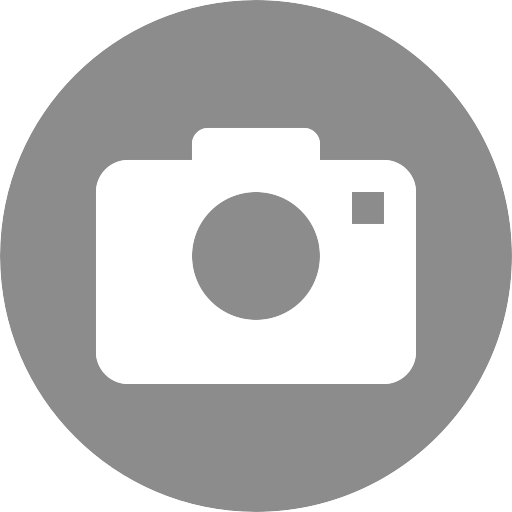
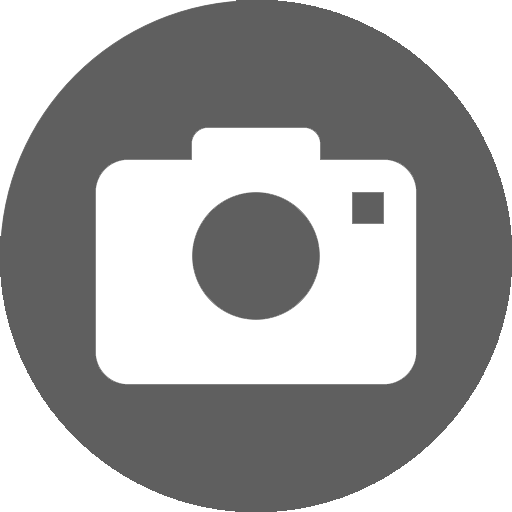
remove cache files, update css/image

diff --git a/gui/vspGui.py b/gui/vspGui.py
@@ -500,7 +500,7 @@ class Ui_VisualSP(object):
         sizePolicy.setVerticalStretch(0)
         sizePolicy.setHeightForWidth(self.cameraArea.sizePolicy().hasHeightForWidth())
         self.cameraArea.setSizePolicy(sizePolicy)
-        self.cameraArea.setStyleSheet("background-color: #656565;\n"
+        self.cameraArea.setStyleSheet("background-color: transparent;\n"
                                       "background-image:    url(:/assets/camera.png);\n"
                                       "background-repeat: no-repeat;\n"
                                       "background-position: center;")
